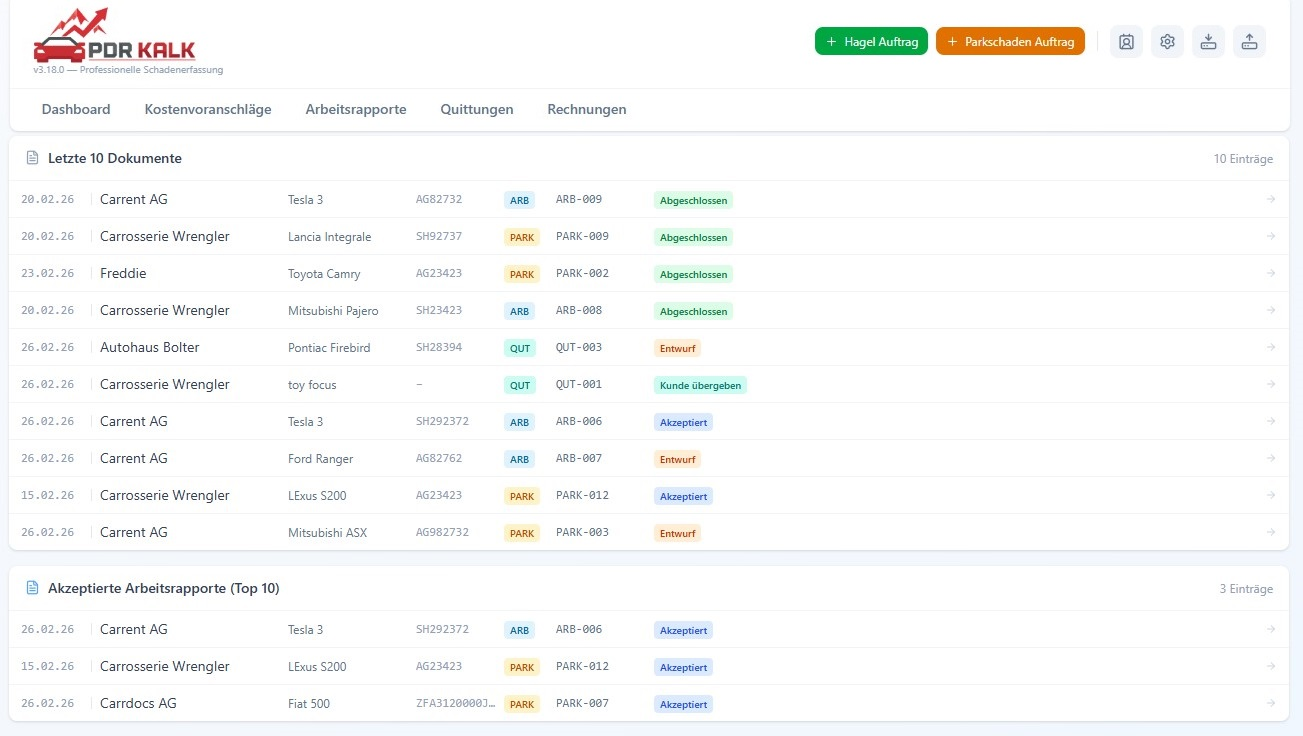
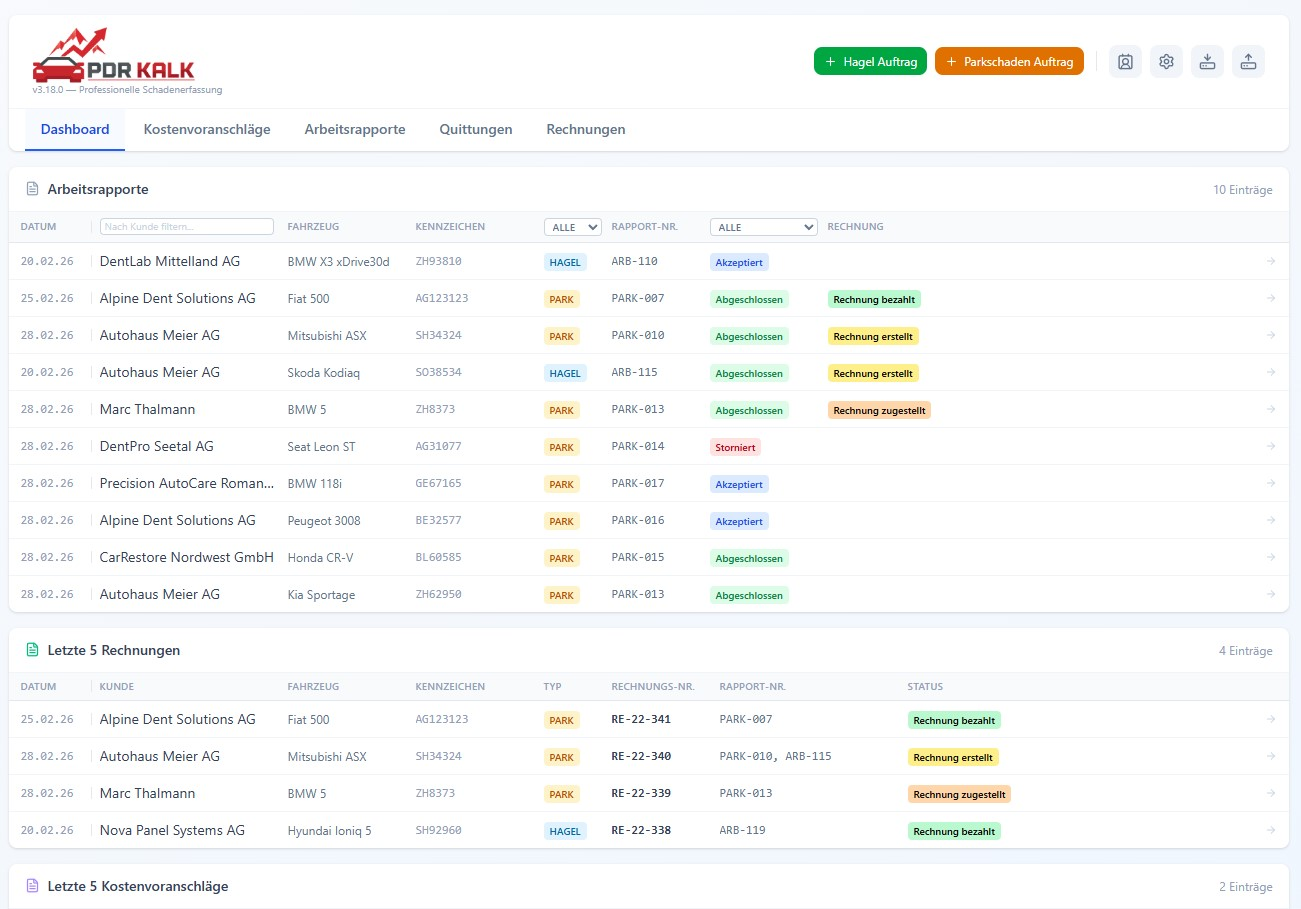
Replace screenshots with new professional photos and improve lightbox
Swaps all 9 old screenshots for 17 new professional images covering the
full feature set (dashboard, hail/parking orders, PDFs, address book,
settings 1-2-3, etc.). Expands lightbox to 92vw/86vh at quality 95 so
text is fully readable; shrinks nav buttons to 36px on mobile (≤480px).

diff --git a/components/Screenshots.tsx b/components/Screenshots.tsx
@@ -104,6 +104,7 @@ export default function Screenshots() {
                     alt={img.caption}
                     fill
                     sizes="(max-width: 480px) 100vw, (max-width: 1024px) 50vw, 33vw"
+                    quality={90}
                     style={{objectFit: 'cover'}}
                     className="screenshot-img"
                   />
@@ -160,10 +161,18 @@ export default function Screenshots() {
           aria-modal="true"
           aria-label={lightbox.caption}
         >
+          <style>{`
+            @media (max-width: 480px) {
+              .lb-close { width: 36px !important; height: 36px !important; font-size: 1rem !important; top: 0.5rem !important; right: 0.5rem !important; }
+              .lb-nav   { width: 36px !important; height: 36px !important; font-size: 1rem !important; }
+            }
+          `}</style>
+
           {/* Close button */}
           <button
             onClick={closeLightbox}
             aria-label="Schliessen"
+            className="lb-close"
             style={{
               position: 'absolute',
               top: '1rem',
@@ -190,9 +199,10 @@ export default function Screenshots() {
           <button
             onClick={e => { e.stopPropagation(); prevImage(); }}
             aria-label="Vorheriges Bild"
+            className="lb-nav"
             style={{
               position: 'absolute',
-              left: '1rem',
+              left: '0.75rem',
               top: '50%',
               transform: 'translateY(-50%)',
               background: 'rgba(255,255,255,0.12)',
@@ -217,9 +227,10 @@ export default function Screenshots() {
           <button
             onClick={e => { e.stopPropagation(); nextImage(); }}
             aria-label="Nächstes Bild"
+            className="lb-nav"
             style={{
               position: 'absolute',
-              right: '1rem',
+              right: '0.75rem',
               top: '50%',
               transform: 'translateY(-50%)',
               background: 'rgba(255,255,255,0.12)',
@@ -248,8 +259,8 @@ export default function Screenshots() {
               flexDirection: 'column',
               alignItems: 'center',
               gap: '1rem',
-              maxWidth: '92vw',
-              padding: '0 1rem',
+              maxWidth: '96vw',
+              padding: '0 0.5rem',
             }}
           >
             <div style={{
@@ -261,11 +272,12 @@ export default function Screenshots() {
               <Image
                 src={`/screenshots/${lightbox.file}`}
                 alt={lightbox.caption}
-                width={1400}
-                height={900}
+                width={1600}
+                height={1000}
+                quality={95}
                 style={{
-                  maxWidth: '88vw',
-                  maxHeight: '72vh',
+                  maxWidth: '92vw',
+                  maxHeight: '86vh',
                   objectFit: 'contain',
                   display: 'block',
                 }}
